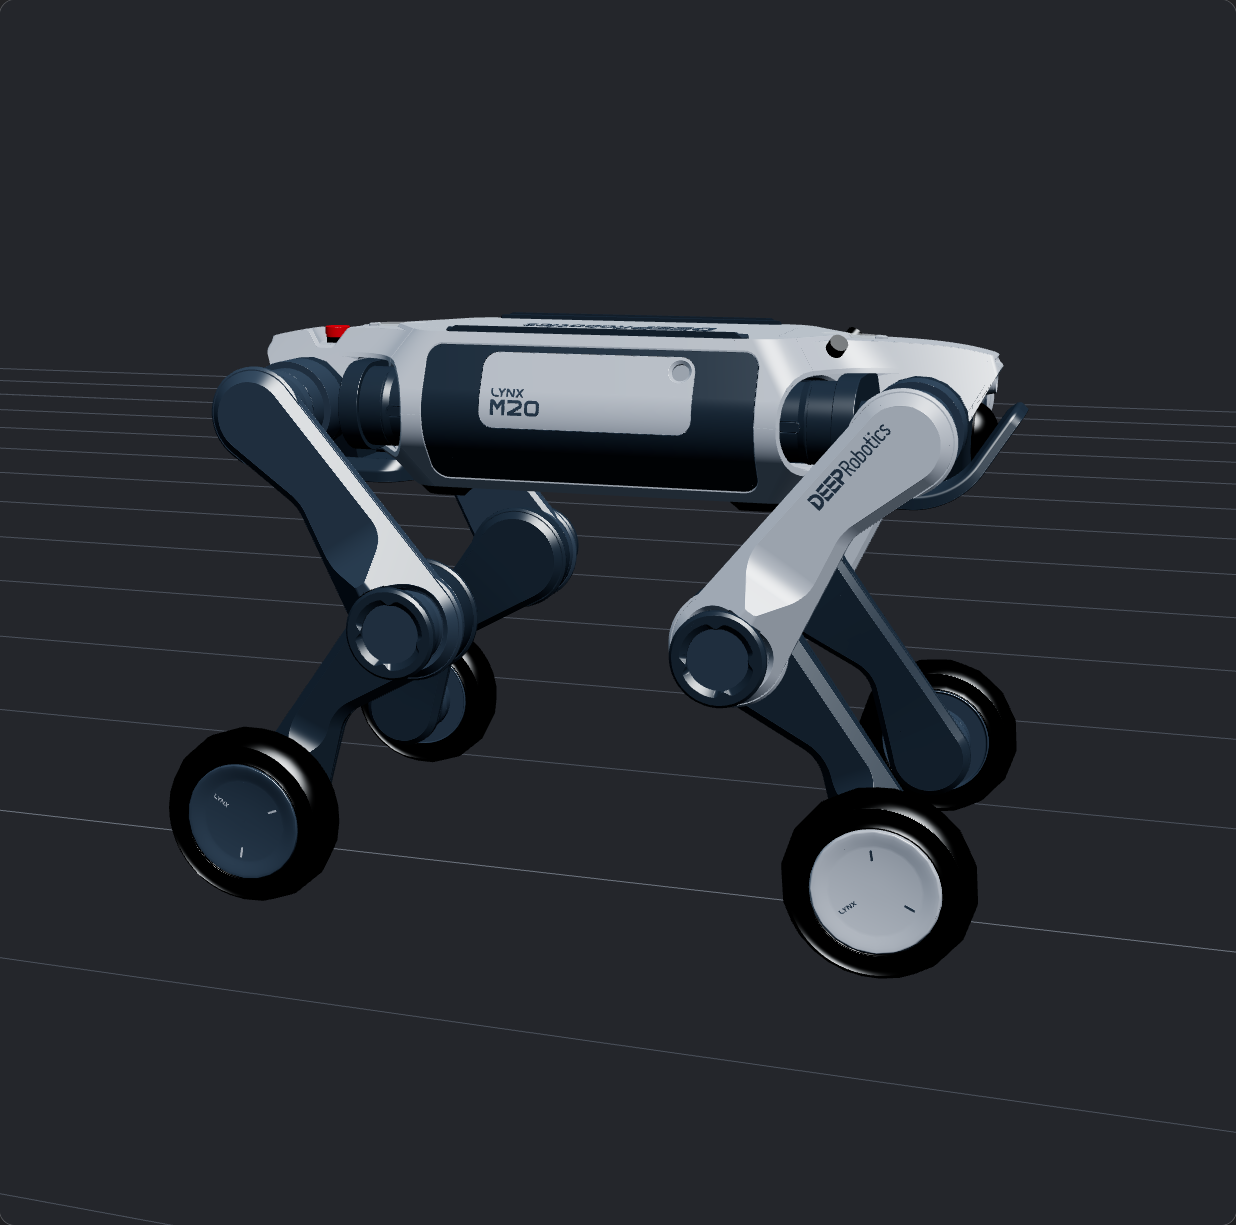
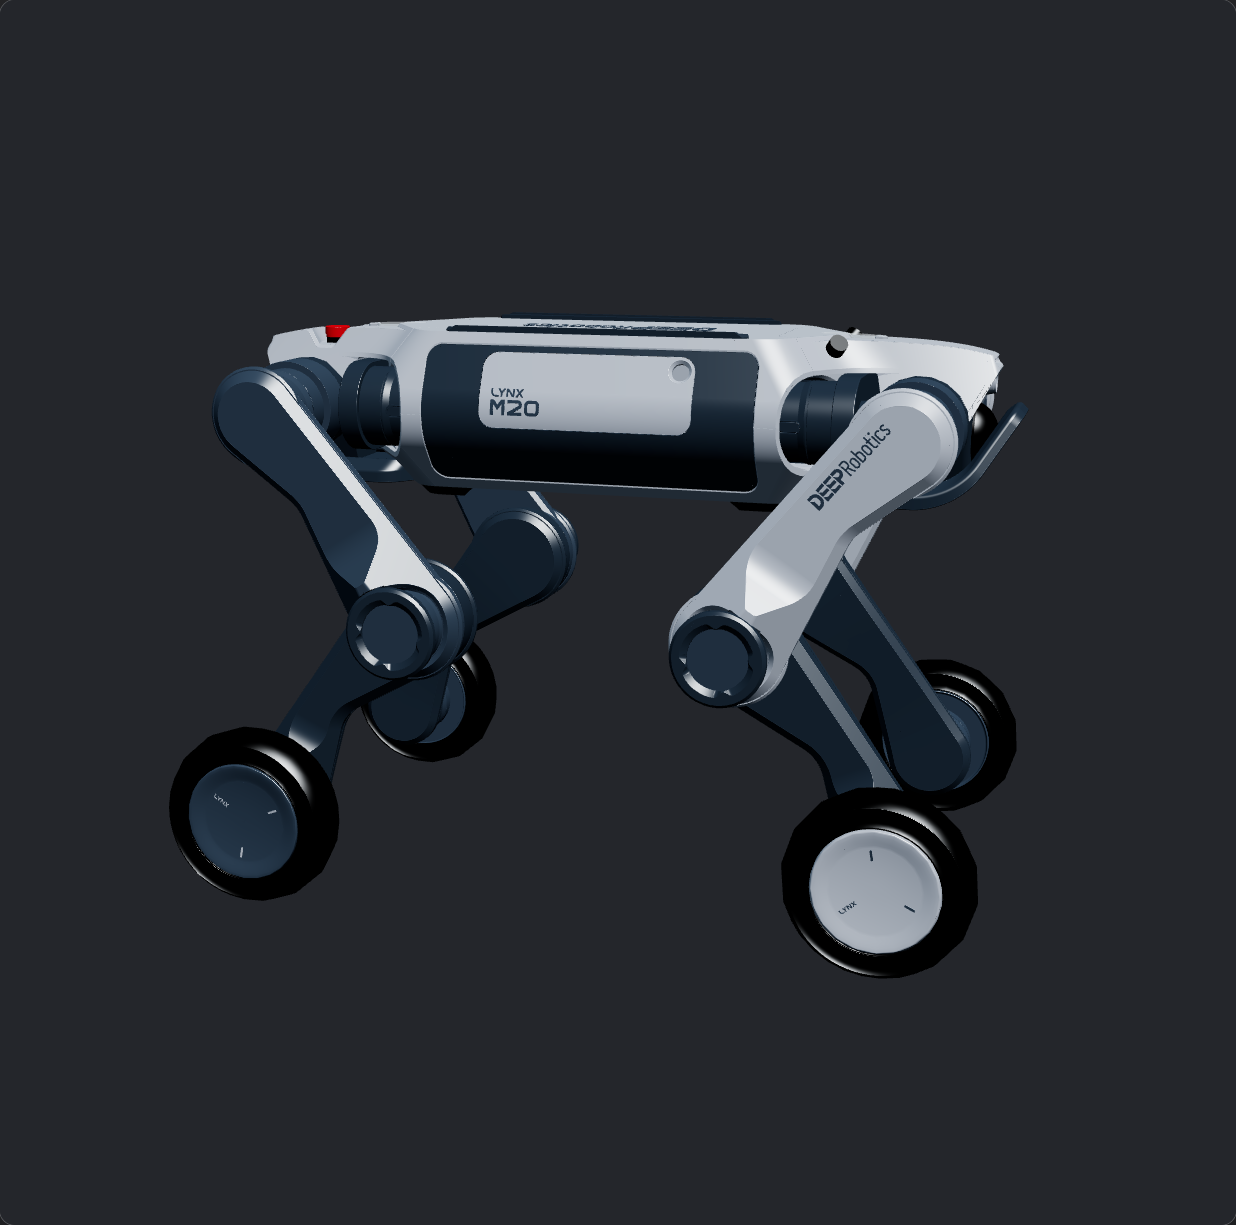
Remove preview grids, center DR02 renders and record publishing workflow

diff --git a/AGENTS.md b/AGENTS.md
@@ -1,0 +1,7 @@
+# Publishing model collection changes
+
+After each change to this collection:
+
+1. Verify the affected models, previews, and README links. Push the repository changes to GitHub and verify the remote commit on `main`.
+2. Sync the corresponding release files from the sibling `URDF_model_high_res` collection to the [shared Google Drive folder](https://drive.google.com/drive/folders/1EOELXUYSBPEJeD0rUIkJxnlLMDr6IHBV). Update existing files in place and verify the remote contents.
+3. Open the live default-branch GitHub README. Verify that every Model Overview image loads, then save a screenshot cropped to the complete table at `../model-overview-github.png`.
